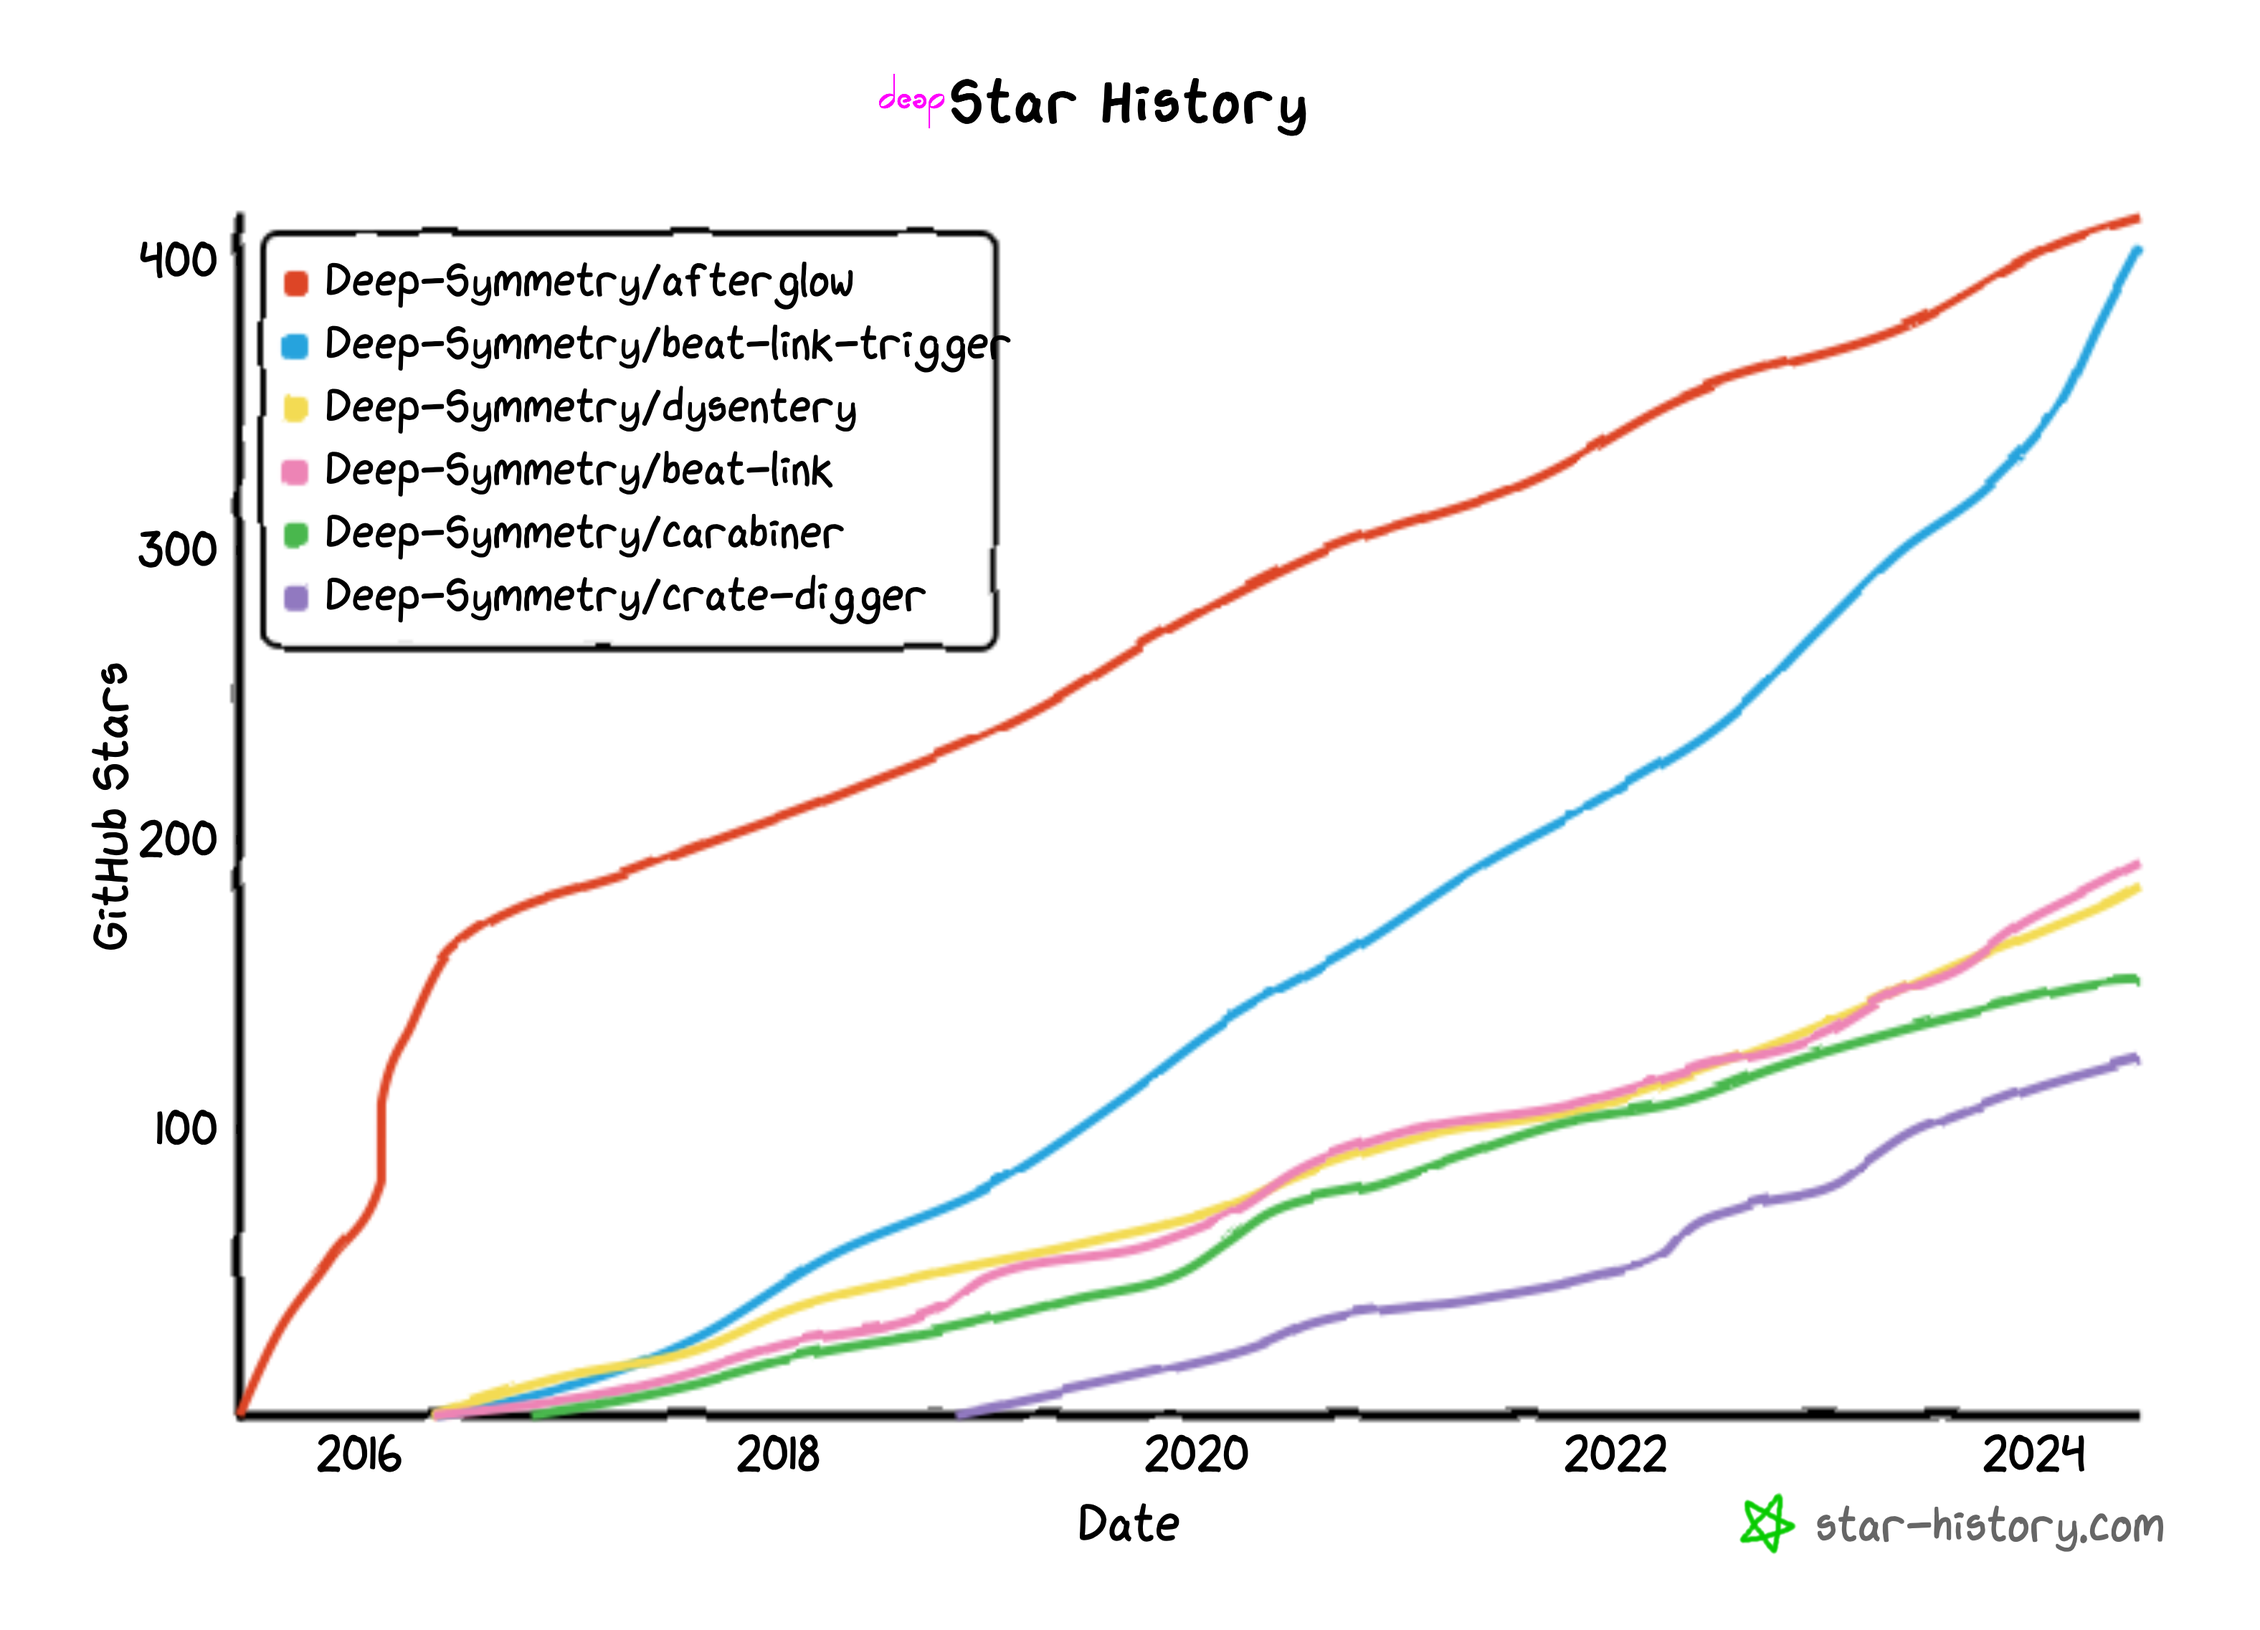
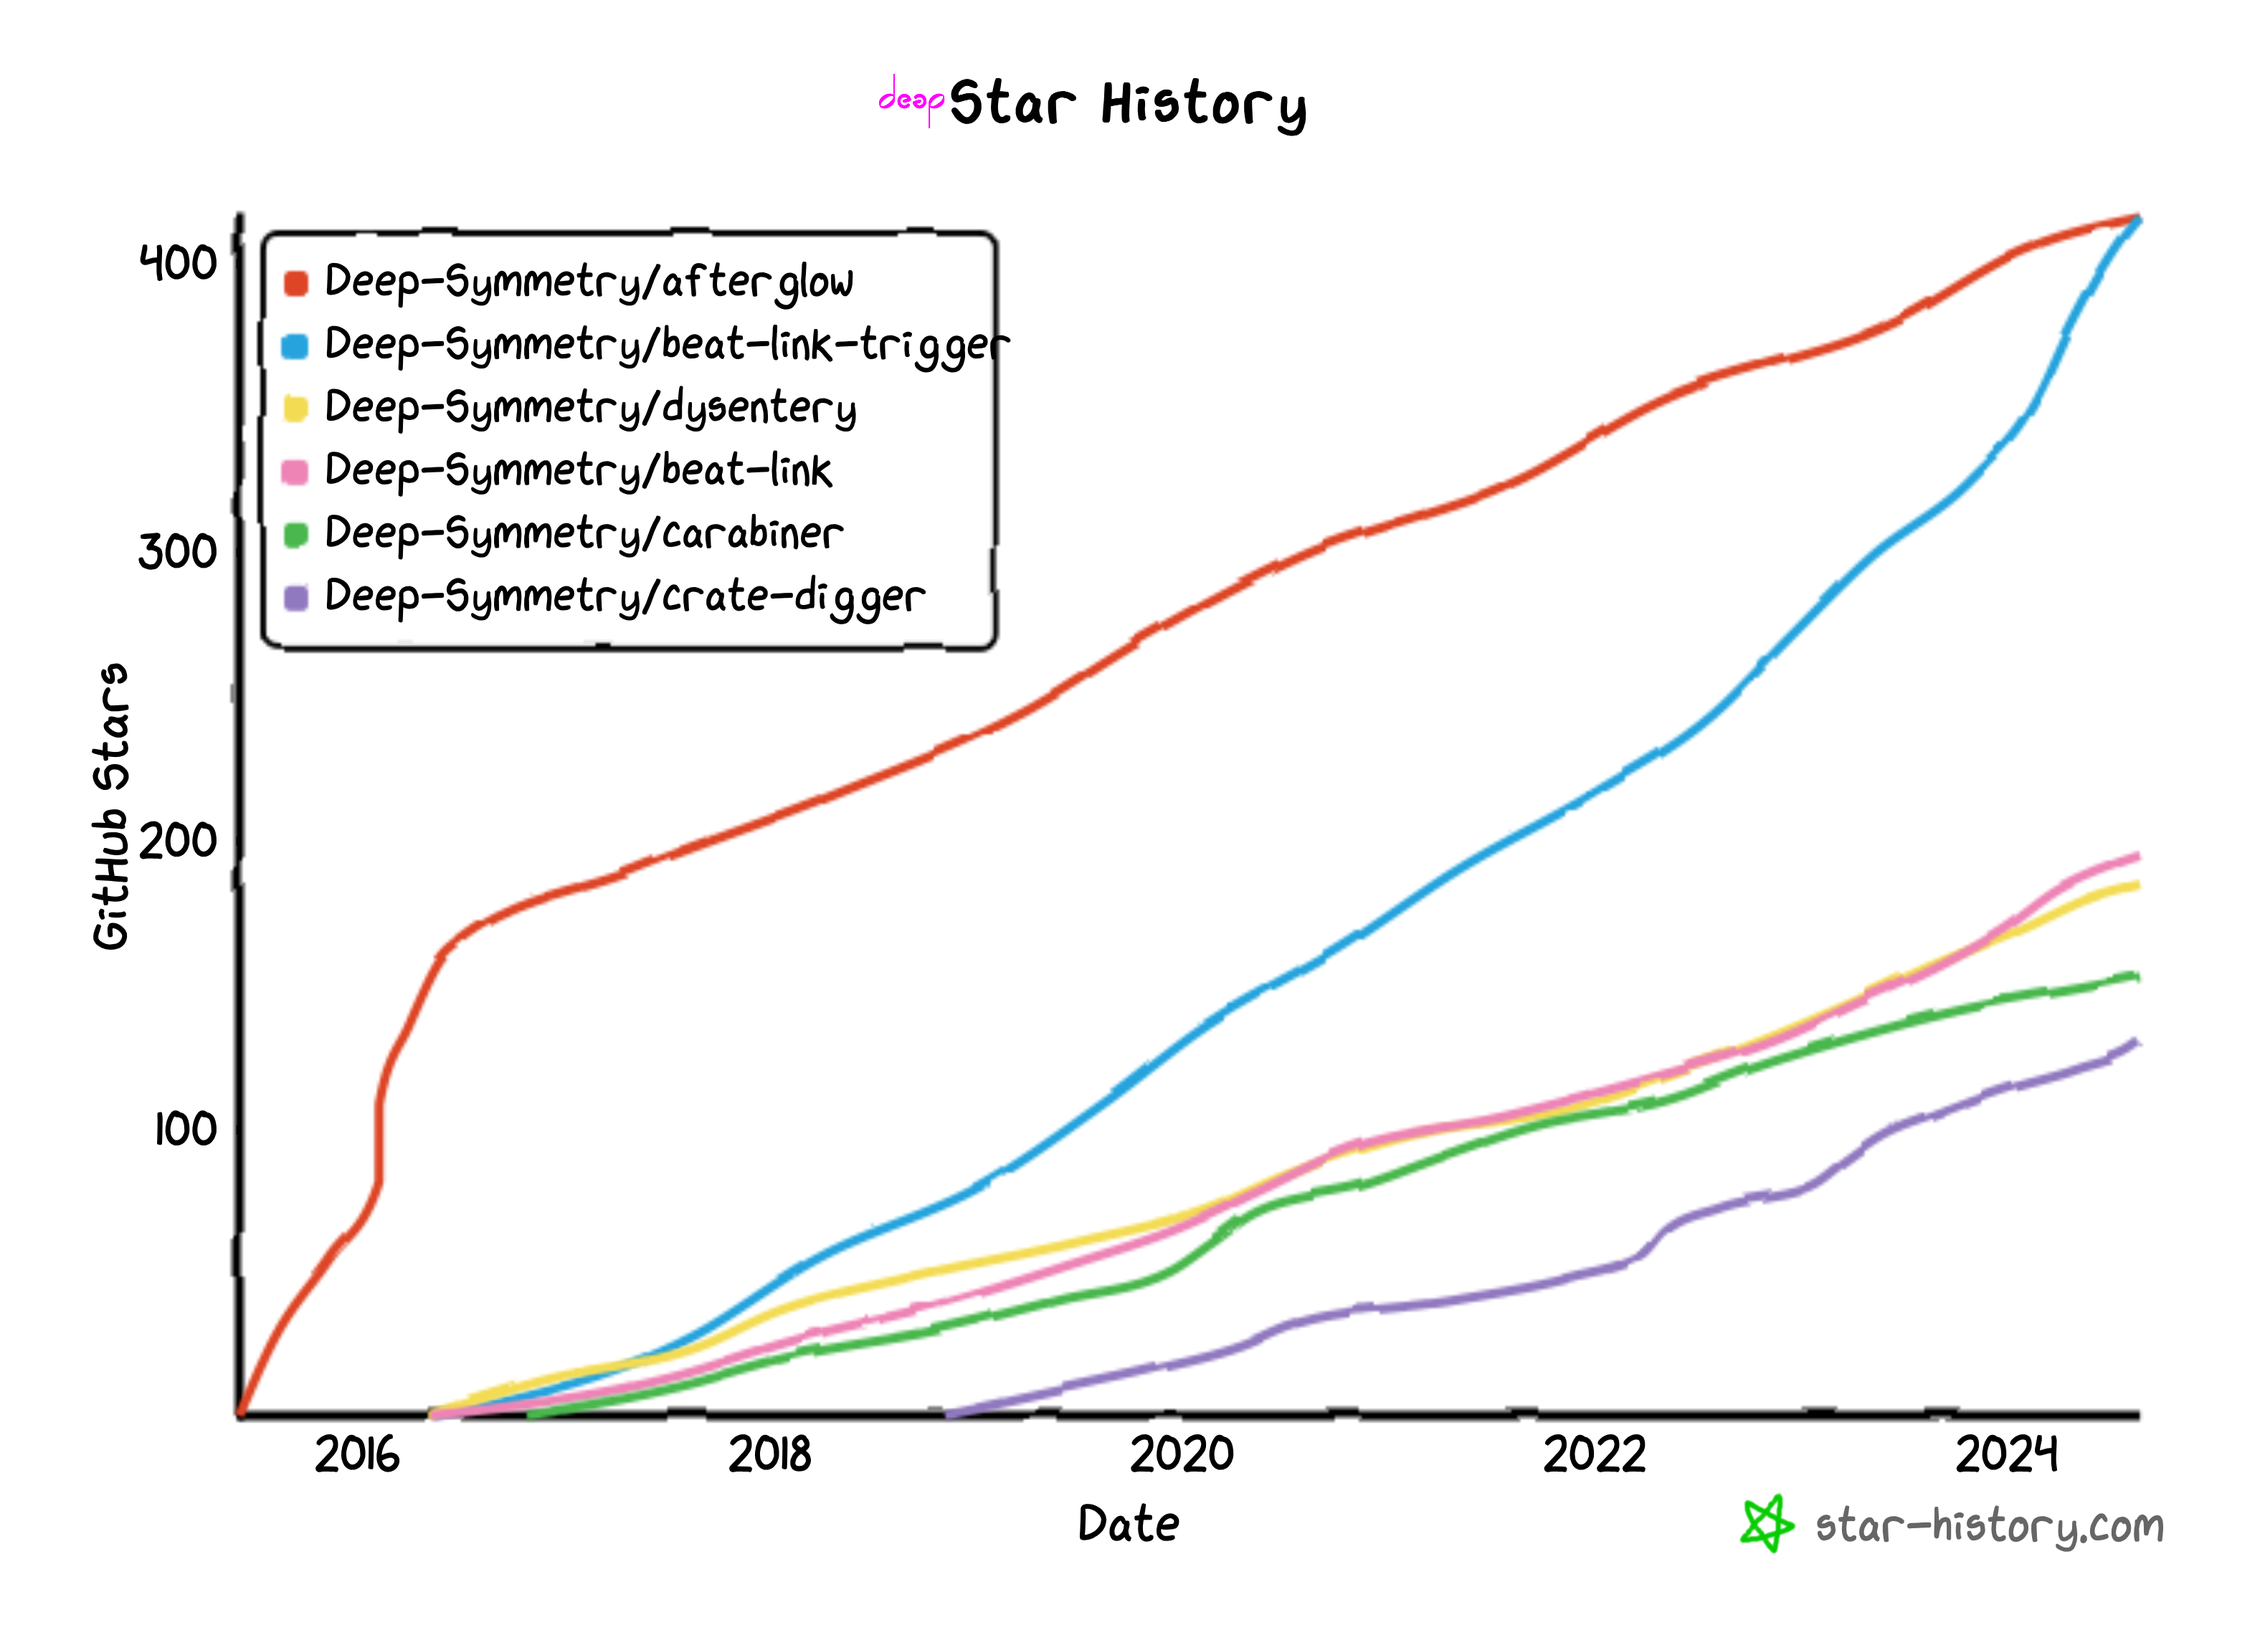
Fix subproject link, update star history.

diff --git a/profile/README.md b/profile/README.md
@@ -55,11 +55,14 @@ frequently):
 [![Star History Chart](images/star-history.png)](https://star-history.com/#Deep-Symmetry/afterglow&Deep-Symmetry/beat-link-trigger&Deep-Symmetry/dysentery&Deep-Symmetry/beat-link&Deep-Symmetry/carabiner&Deep-Symmetry/crate-digger&Date)
 
 We have not had time to perform shows since 2016, so we aren't using
-afterglow any longer, but it is still the repository people are most
-excited about.
+afterglow any longer, but it was for a long time the repository people
+are most excited about. Far more people use Beat Link Trigger, so it
+is surprising it took so long to catch up, but as noted above, few of
+those users are developers, so they tend not to have GitHub accounts
+or know about stars.
 
-Most of the time we used to spend performing has been devoted to
-beat-link-trigger and the related repositories that underpin it, which
+Most of the time we previously spent performing has been devoted to
+Beat Link Trigger and the related repositories that underpin it, which
 many interesting artists are using to synchronize visuals and lighting
 with DJ performances.
 
@@ -67,4 +70,4 @@ with DJ performances.
 
 As mentioned above, you can learn about the pieces that make up these
 main projects and which you might find useful on their own
-[here](profile/subprojects.md).
+[here](subprojects.md).
